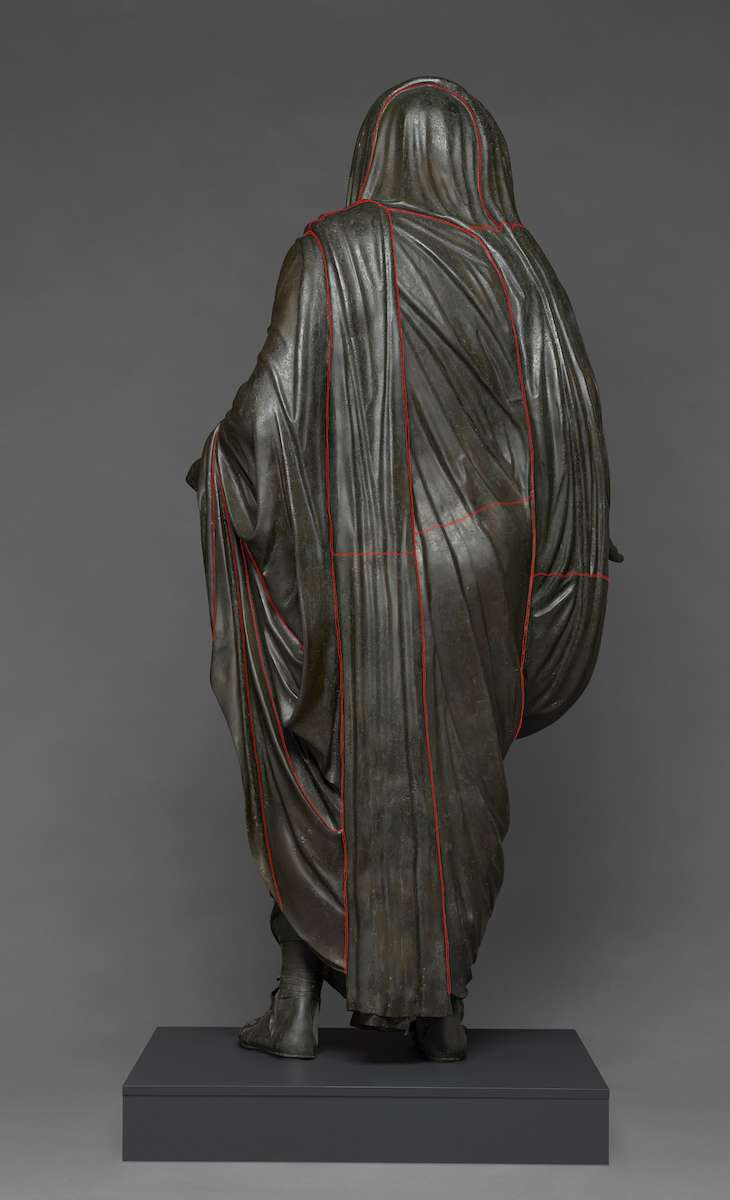
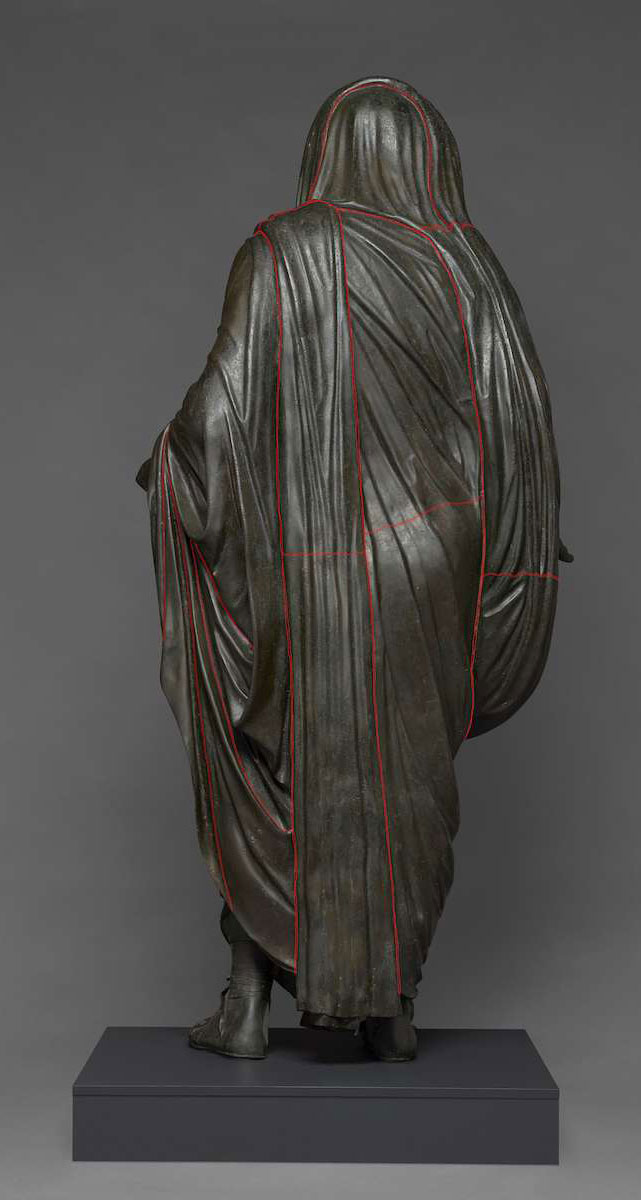
Adjust image crops and placements, sections I and II

diff --git a/content/large-scale-bronzes/5-butz.md b/content/large-scale-bronzes/5-butz.md
@@ -12,7 +12,9 @@ weight: 105
 
 > Ὑπὲρ Πτολεμαίου ἐμοῦ τοῦ Ἐπιφανεστάτου
 
-The bronze head of Arsinoë III is one of the most important pieces in the Giuseppe Acerbi Collection of the Museo Civico di Palazzo Te in Mantua, a collection assembled when Acerbi was the Austrian consul general in Alexandria between 1826 and 1834 and later given to his hometown of Mantua ([fig. 5.1](#5.1)). Even compared with the exceptional quality of the overall collection, which is particularly strong in Late Period, Ptolemaic, and Roman material, this representation of Arsinoë III is singular. It is the only major bronze Acerbi acquired and it is a rare embodiment in that material of Hellenistic royal portraiture in the Greek tradition. {{< q-figure id="5.1" class="float-left" >}} The head ([fig. 5.2](#5.2)) connects strongly with other significant portraits displayed in the same room at the Palazzo Te. One is possibly a portrait of Psammetichus I, who took the throne of Egypt in the seventh century BC with the help of Greek mercenaries and who, by formally authorizing the Greek settlement at Naukratis south of Alexandria, opened the intercultural contact that would culminate in the Ptolemaic period.[^1] Another portrait of a Ptolemaic king is also nearby, rendered in the Egyptian style and identified as perhaps Ptolemy II Philadelphus,[^2] who would have been the queen’s grandfather.
+{{< q-figure id="5.1" class="float-right" >}}
+
+The bronze head of Arsinoë III is one of the most important pieces in the Giuseppe Acerbi Collection of the Museo Civico di Palazzo Te in Mantua, a collection assembled when Acerbi was the Austrian consul general in Alexandria between 1826 and 1834 and later given to his hometown of Mantua ([fig. 5.1](#5.1)). Even compared with the exceptional quality of the overall collection, which is particularly strong in Late Period, Ptolemaic, and Roman material, this representation of Arsinoë III is singular. It is the only major bronze Acerbi acquired and it is a rare embodiment in that material of Hellenistic royal portraiture in the Greek tradition. The head ([fig. 5.2](#5.2)) connects strongly with other significant portraits displayed in the same room at the Palazzo Te. One is possibly a portrait of Psammetichus I, who took the throne of Egypt in the seventh century BC with the help of Greek mercenaries and who, by formally authorizing the Greek settlement at Naukratis south of Alexandria, opened the intercultural contact that would culminate in the Ptolemaic period.[^1] Another portrait of a Ptolemaic king is also nearby, rendered in the Egyptian style and identified as perhaps Ptolemy II Philadelphus,[^2] who would have been the queen’s grandfather.
 
 {{< q-figure id="5.2" >}}
 
@@ -34,13 +36,15 @@ Ghisellini, as already noted, utilized the frontal view for her principle assess
 
 The left profile ([fig. 3b](#5.3a-b)), on the other hand, has a different vitality. There is an uplift, which one also observes from the front, and a focused energy that even the loss of the inlaid eye cannot impair. The mouth actually curves upward at the corner and the overall effect is one of tempered lightness. The hairstyle, considered her own as confirmed on the coinage, balances the face very well from any angle, but on this side the thrust of the twisted braids forming the bun at the back is stronger and extends forcibly, a perfect counterweight to the face. We appreciate how the braiding, far more plastic in its rendering of the strands of hair, forms a natural diadem for the queen making a stephane unnecessary ([fig. 5.4](#5.4)). Yet the deep groove between the side braids and the carefully combed crown is capable of receiving one, as noted by Smith. It is the more enlivened left profile, then, that has the sense of rejuvenation and hence divinity about it.
 
-There is one Hellenistic relief that I claim relates directly to the Mantua head because it sheds further light on these mixed elements of realism and divinity in Arsinoë’s portraiture: the Archelaos Relief, signed by Archelaos of Priene ([fig. 5.5](#5.5)). {{< q-figure id="5.5" class="float-left" >}} Found at Bovillae, some 19 kilometers (12 miles) outside of Rome, and now in the British Museum, the relief presents the immortalization of Homer in a series of four registers.[^12] The event itself is depicted on the bottom register; then it is celebrated by Apollo and a number of the Muses on the second register, by Mnemosyne and other figures on the third register, and finally by Zeus at the apex. These deities indicate the divine inspiration enjoyed by Homer from the inception of his works and facilitate his triumphant “homecoming.” J. J. Pollitt states that the facial similarity between Homer and Zeus not only brings the two together but is responsible for the modern title “Apotheosis of Homer” sometimes given to the relief.[^13] There is in addition a standing figure on the far right of the second register, positioned in contrapposto upon a statue base and holding a scroll with a lightly incised tripod behind him. While this could very likely be a victorious poet honored by the stele or the dedicant proper,[^14] it could conceivably be Homer himself as a younger genius, especially if the relief were implying an actual apotheosis, i.e. the raising of the individual to the higher status.[^15] But of greatest interest to us here is the pair of figures farthest to the left on the bottom register, stepping toward the seated Homer, framing the scene on that side, and acting as sole agents in his crowning ([fig. 5.6a](#5.6a)). {{< q-figure id="5.6a" class="float-right" >}}Recognizable from coin portraits, the couple is unquestionably Ptolemy IV and Arsinoë III—Richard Neer calls the portraits “thinly disguised”[^16]—although other rulers have been proposed in the past.[^17] No matter what date is given to the relief or its actual place of manufacture,[^18] in the end it comes back to this couple and hence the traditions of the Alexandrine literati. Ptolemy IV, known throughout his reign for his religious piety, erected a Homereion as part of his temple-building campaign in Alexandria honoring many of the Egyptian gods.[^19] An important anonymous papyrus preserves an epigram in which Ptolemy IV is called “blessed” for this act.[^20] Aelian (*Varia historia* 13.22) also attests to the foundation of the Homereion. While the location of the shrine is not known, it is worth citing the passage:
+There is one Hellenistic relief that I claim relates directly to the Mantua head because it sheds further light on these mixed elements of realism and divinity in Arsinoë’s portraiture: the Archelaos Relief, signed by Archelaos of Priene ([fig. 5.5](#5.5)). Found at Bovillae, some 19 kilometers (12 miles) outside of Rome, and now in the British Museum, the relief presents the immortalization of Homer in a series of four registers.[^12] The event itself is depicted on the bottom register; then it is celebrated by Apollo and a number of the Muses on the second register, by Mnemosyne and other figures on the third register, and finally by Zeus at the apex. These deities indicate the divine inspiration enjoyed by Homer from the inception of his works and facilitate his triumphant “homecoming.” J. J. Pollitt states that the facial similarity between Homer and Zeus not only brings the two together but is responsible for the modern title “Apotheosis of Homer” sometimes given to the relief.[^13] There is in addition a standing figure on the far right of the second register, positioned in contrapposto upon a statue base and holding a scroll with a lightly incised tripod behind him. While this could very likely be a victorious poet honored by the stele or the dedicant proper,[^14] it could conceivably be Homer himself as a younger genius, especially if the relief were implying an actual apotheosis, i.e. the raising of the individual to the higher status.[^15] But of greatest interest to us here is the pair of figures farthest to the left on the bottom register, stepping toward the seated Homer, framing the scene on that side, and acting as sole agents in his crowning ([fig. 5.6a](#5.6a)). Recognizable from coin portraits, the couple is unquestionably Ptolemy IV and Arsinoë III—Richard Neer calls the portraits “thinly disguised”[^16]—although other rulers have been proposed in the past.[^17] No matter what date is given to the relief or its actual place of manufacture,[^18] in the end it comes back to this couple and hence the traditions of the Alexandrine literati. Ptolemy IV, known throughout his reign for his religious piety, erected a Homereion as part of his temple-building campaign in Alexandria honoring many of the Egyptian gods.[^19] An important anonymous papyrus preserves an epigram in which Ptolemy IV is called “blessed” for this act.[^20] Aelian (*Varia historia* 13.22) also attests to the foundation of the Homereion. While the location of the shrine is not known, it is worth citing the passage:
+
+{{< q-figure-group id="5.5, 5.6a, 5.6b" class="float-right" >}}
 
 >Πτολεμαῖος ὁ Φιλοπάτωρ κατασκευάσας Ὁμήρῳ νέων, αὑτὸν μὲν καλὸν καλῶς ἐκάθισε, κύκλῳ δὲ τὰς πόλεις περιέστησε τοῦ ἀγάλματος, ὅσαι ἀντιποιοῦνται τοῦ Ὁμήρου. Γαλάτων δέ ὁ ζωγράφος ἔγαψε τὸν μὲν Ὅμηρον ἀυτὸν ἐμοῦντα, τοὺς δὲ ἄλλους ποιητὰς τὰ ἑμημεσμένα ἀρυτομένους.[^21]
 
 This description brings to mind the circle of poets, part of the dromos installation at the Sarapieion of Saqqara, the statuary of which may well be dated to the reign of Ptolemy IV.[^22] Homer was among the subjects of that elite circle of statues, if not the focal point. This has led me to a tentative theory that what is depicted on the Archelaos Relief may also be related to the larger installation, firmly connecting Alexandria to Memphis.[^23] The Archelaos Relief depicts at least two distinct environments. The first is the theatrical ambience on the bottom register with its backdrop of columns joined by a draped curtain attached just below the abacus of each column. The result is a shallow, contained space dominated by Homer and the royal couple to the left. In front of Homer, just off-center, is a circular altar, with a magnificent, Apis-like horned bull looming over it. Two small figures, kneeling and flanking Homer’s throne, are personifications of the bard’s epic creations, as the inscriptions below tell the viewer. Facing Homer on the other side of the altar are the genres of literature and intellect that acknowledge his inspiration and will ultimately carry it forward. The *rhythmos* of the scene is interesting. There is a processional quality to the repetitious, fixed contrapposto position of many of the figures on the right, with everyone gesturing toward Homer. The votive effect has been noted by several scholars.[^24] The second environment of the relief is the mountain-like ascent of the upper registers combining some architectonic elements, such as the cavelike archway or grotto sheltering Apollo and the curving, graded stairway connecting the third register to the top. Neer has associated these details with a shrine to the Muses overlooking the Great Library at Alexandria,[^25] but it is very possible that we could be looking at some part or parts of the Homereion itself. The figure on the statue base is positioned directly below the staircase between the third and fourth registers. Mnemosyne, the mother of the Muses, stands in contrapposto on an outcropping of rock to the left of the stairway, looking upward toward a reclining Zeus. Her imposing figure breaks down the division between the third and fourth registers. Their offspring, the Muses, are the major occupants of the registers below. Zahra Newby traces what would have been the orchestration of the eye contact between these figures, many now missing their actual heads.[^26] Space and the transmission of knowledge are definitely handled differently in the upper three registers.
 
-While undoubtedly advancing side-by-side toward Homer in three-dimensional space, the conventions of the two-dimensional relief put Ptolemy IV’s head just ahead of his wife’s on the left end of the bottom register. The hands of Arsinoë III holding the stephane over Homer’s head, however, extend beyond the hands of her husband, each holding a scroll. But the subtleties go beyond this. The three heads—those of Ptolemy, Homer, and Arsinoë—are cut at significantly different levels. They range from the very precise, coin-like quality of Ptolemy IV’s profile in low relief, to the higher treatment of the seated Homer’s almost three-quarter turn, to the fully achieved three-quarter high relief of Arsinoë III ([fig. 5.6b](#5.6b)). {{< q-figure id="5.6b" class="float-left" >}}It is even possible to sense the existence of the far side of her face, recalling the profile views of Arsinoë III in Mantua and that peculiar blending of the realistic and divinized aspects of the queen in a single artwork. It may be asking too much, given the wear on her image (breakage of the nose to start with) to talk about the far side of Arsinoë’s portrait on the Archelaos Relief; but my assessment of her right profile is that it is idealized. There is, once again, that rejuvenated quality in the face; she looks young especially alongside her husband. Her mouth is visibly upturned. This is not the “Victorian” realism of the octodrachm coin portrait. One can speak even more definitively of her hairstyle: it is exactly that of the Mantua head but with an important difference. The twisted bun at the back is draped, the long material visibly extending over her right shoulder, signifying the religious import of her action. But unlike the full *capite velato* regularly seen in the coinage of her predecessors Arsinoë II and Berenike II, the coin portrait of this queen, as we have learned, is more worldly. If she were to have worn the full *capite velato* on the Archelaos Relief, what a shift it would have made in the whole iconographical message. Instead, Arsinoë III takes absolute command of the deification of Homer via her choice of headgear, namely the polos crown reserved for goddesses, among them Aphrodite or Tyche, dominating the partial *capite velato*. Ptolemy may have been given wings (rendered in the lightest relief) but she is the deified and deifying force propelling the action of the relief.
+While undoubtedly advancing side-by-side toward Homer in three-dimensional space, the conventions of the two-dimensional relief put Ptolemy IV’s head just ahead of his wife’s on the left end of the bottom register. The hands of Arsinoë III holding the stephane over Homer’s head, however, extend beyond the hands of her husband, each holding a scroll. But the subtleties go beyond this. The three heads—those of Ptolemy, Homer, and Arsinoë—are cut at significantly different levels. They range from the very precise, coin-like quality of Ptolemy IV’s profile in low relief, to the higher treatment of the seated Homer’s almost three-quarter turn, to the fully achieved three-quarter high relief of Arsinoë III ([fig. 5.6b](#5.6b)). It is even possible to sense the existence of the far side of her face, recalling the profile views of Arsinoë III in Mantua and that peculiar blending of the realistic and divinized aspects of the queen in a single artwork. It may be asking too much, given the wear on her image (breakage of the nose to start with) to talk about the far side of Arsinoë’s portrait on the Archelaos Relief; but my assessment of her right profile is that it is idealized. There is, once again, that rejuvenated quality in the face; she looks young especially alongside her husband. Her mouth is visibly upturned. This is not the “Victorian” realism of the octodrachm coin portrait. One can speak even more definitively of her hairstyle: it is exactly that of the Mantua head but with an important difference. The twisted bun at the back is draped, the long material visibly extending over her right shoulder, signifying the religious import of her action. But unlike the full *capite velato* regularly seen in the coinage of her predecessors Arsinoë II and Berenike II, the coin portrait of this queen, as we have learned, is more worldly. If she were to have worn the full *capite velato* on the Archelaos Relief, what a shift it would have made in the whole iconographical message. Instead, Arsinoë III takes absolute command of the deification of Homer via her choice of headgear, namely the polos crown reserved for goddesses, among them Aphrodite or Tyche, dominating the partial *capite velato*. Ptolemy may have been given wings (rendered in the lightest relief) but she is the deified and deifying force propelling the action of the relief.
 
 {{< q-figure id="5.7" >}}
 

diff --git a/content/large-scale-bronzes/3-koutsouflakis.md b/content/large-scale-bronzes/3-koutsouflakis.md
@@ -46,9 +46,9 @@ There is no official record indicating that anyone saw the wreck site again, and
 
 The statue of the Horse and Jockey was reassembled, and after extensive restoration went on display at the National Museum of Athens.[^15] The original artist and the circumstances under which the work was created are unknown. Seán Hemingway has suggested that it may have been plundered from Corinth in 146 BC by the Roman general Mumius during the Achaean War and given to Attalus as a share of the booty, but lost while in transit to Pergamon.[^16] Christos Piteros connected the wreck with the plundering of Chalkis by Mithridates’ general Archelaos after the defeat of their coalition by Sulla in 86 BC and his escape back to Pergamon.[^17]
 
-After the delivery of the last part of the Artemision assemblage, almost half a century passed without any significant new finds in Greece. The only exception was the confiscation by the port police of a bronze statuette depicting Artemis, raised during illegal operations in 1959 from the sea off Mykonos ([fig. 3.2](#3.2)).[^18] According to the statue’s drapery and style, it should be dated in the early Hellenistic period.
+{{< q-figure id="3.2" class="float-right" >}}
 
-{{< q-figure id="3.2" >}}
+After the delivery of the last part of the Artemision assemblage, almost half a century passed without any significant new finds in Greece. The only exception was the confiscation by the port police of a bronze statuette depicting Artemis, raised during illegal operations in 1959 from the sea off Mykonos ([fig. 3.2](#3.2)).[^18] According to the statue’s drapery and style, it should be dated in the early Hellenistic period.
 
 Several bronzes have however been reported found off the coast of Asia Minor, modern Turkey. The “Lady from the Sea” was found in 1953 by fishermen dragging their nets along the coast of Arap Adasi, not far from the Knidos peninsula, at a depth of around 100 meters (330 feet).[^19] They brought the bronze to the village of Bitez, near Bodrum, and abandoned it on the beach. There, neglected and covered with marine incrustations, it remained for several weeks until it attracted the attention of George E. Bean, a British professor at Istanbul University; he had the bronze removed to Izmir where it was cleaned and housed. The work is usually dated in the first half of the third century BC. Extensive underwater surveys conducted in the area failed to link the bronze to any specific context.[^20]
 
@@ -82,17 +82,15 @@ Concerning the conditions of transport and loss of the statues retrieved from th
 
 Among the late finds originating from the Aegean there is also a life-sized bronze statue of a nude male, raised in 2004 from a depth of almost 450 meters (1,475 feet) in the area west of Kythnos in the Cyclades.[^41] The entire head, the right arm from the shoulder, the right leg from the knee down, and part of the back are missing. The nudity, the equipoise, and the musculature of the body suggest a robust athlete, perhaps a discus thrower. The dating of the bronze is still very uncertain and depends on its potential relationship with a shipwreck found in the same area, loaded with a mixed cargo that contained, among other items, Chian amphorae of the late fourth or early third century BC.[^42]
 
-The latest accession in this long series of bronzes found underwater is a head of a young male figure that was delivered to the Department by a spear-fisherman in late summer 2015 ([fig. 3.6](#3.6)).[^43] It was collected in shallow waters in front of the village of Agia Pelagia in the island of Kythira, south of Peloponnese; according to the existing evidence, it is not connected to any shipwreck remains. The rendering of the hair in shallow relief might indicate a late Hellenistic, if not early Roman, variation of an earlier prototype.
+{{< q-figure id="3.6" class="float-right">}}
 
-{{< q-figure id="3.6" >}}
+The latest accession in this long series of bronzes found underwater is a head of a young male figure that was delivered to the Department by a spear-fisherman in late summer 2015 ([fig. 3.6](#3.6)).[^43] It was collected in shallow waters in front of the village of Agia Pelagia in the island of Kythira, south of Peloponnese; according to the existing evidence, it is not connected to any shipwreck remains. The rendering of the hair in shallow relief might indicate a late Hellenistic, if not early Roman, variation of an earlier prototype.
 
 Any catalogue of bronzes retrieved from Greek or Turkish territorial waters inevitably remains incomplete: we lack information about the numerous bronzes that worked their way through illegal transactions directly into private collections or appeared out of nowhere on the international market. Ownership of art is *de facto* sanctioned by time. After aging a few years in private collections and then taking advantage of less strict legislation, they may well end up in collections of well-respected institutions. The repatriation in 2002 of a young male nude, now in the National Archaeological Museum of Athens,[^44] is one of the very few that made its way back. The sculpture allegedly was found somewhere in the Ionian Sea, perhaps off Preveza, but as in most such cases, there is no definite information. No doubt, there are many more.
 
 While complete or dismembered statues may at anytime rise from the deep to the full glare of publicity, investigators of shipwrecks on the coastal zone tend to conceal any trace of more valuable or uncommon cargo. As of Summer 2015, the number of ancient wrecks surveyed in Greek territorial waters exceeded two hundred. Yet the number of wreck-sites containing bronzes has remained stable for almost a century: Antikythera and Artemision, two of the very first wrecks ever investigated, were the only known examples until 2010. In that year a series of unexpected finds came to light during the opening of some trial trenches on a late Hellenistic shipwreck in the southern Euboean Gulf, off the island of Styra, at an accessible depth between 40 and 45 meters (131–147 feet).[^45] Several fragmentary pieces of bronze statues of natural size were unearthed by removing the upper sediments: a part of a nude calf, parts of folded drapery, and the selvage of a garment displaying a zone of inlaid reddish cooper ([fig. 3.7](#3.7)).[^46] From the same wreck, two intact bronze legs of a table or couch decorated with busts of sirens and acanthus leaves were also recovered ([fig. 3.8](#3.8)).[^47] Luxury furniture is seldom found in ancient shipwrecks, with the only other known examples reported in the wrecks from Antikythera and Mahdia, both known for their cargo of bronzes.[^48]
 
-{{< q-figure id="3.7" >}}
-
-{{< q-figure id="3.8" >}}
+{{< q-figure-group id="3.7, 3.8" grid="2" >}}
 
 Bronzes, however, constituted only a small part of the total cargo of the Styra shipwreck. The main cargo was a consignment of north Peloponnesian (Sikyonian) amphorae and tableware ([fig. 3.9](#3.9)). The nature of this complementary cargo of bronzes cannot be fully understood until the completion of the excavation. They could represent booty from the devastation of a town; the luxury belongings of an official who was travelling to or from his post; or even art objects ordered by a Roman patron. And considering the historic circumstances, fragmentary bronzes may well also have been collected as scrap and transported by sea on their way to the foundries that operated incessantly during that period to meet the demands of war.
 

diff --git a/content/the-artist/12-horne.md b/content/the-artist/12-horne.md
@@ -14,7 +14,9 @@ weight: 204
 
 Our understanding of the ancient sculptor’s profession, like so much of ancient sculpture itself, is fragmentary. The particulars of ephemeral facets such as training and organization come primarily from literary sources, supplemented by meager evidence found at sites of bronze and marble sculpture production. As a result, the clearest picture forms around the major figures of antiquity such as Praxiteles and Pheidias, who, according to ancient accounts, were sought out to complete major works across the Aegean.[^1] While we cannot fault encyclopedists, principally Pliny the Elder and Pausanias, for focusing their comments on notable pieces and creators, their perspectives are their own; it is rather our understanding of their accounts that deserves critical reexamination. A passing analysis of these literary accounts skews our understanding of the broader system of employment for all sculptors toward a series of major commissions.[^2] It is perhaps more accurate to consider commissions, or *patroned* work, as exceptional highlights rather than reflecting the trade more generally.[^3] This perspective raises important questions such as: What would have occupied the intervening years of a patron-less sculptor’s career? Were there periods during which he was actively seeking employment at sites of sculptural production? I will argue that in order to understand *un-patroned* employment and its relation to mobility, it is prudent to turn to approaches typically considered ancillary to the study of art. These include the modern study of migration dynamics as well as logistical and contractual documents within the epigraphic record.[^4] Sculptors of the ancient world were, after all, engaged in a commercial enterprise and reliant upon monetizing their material output.[^5] In the case of sculpting for large-scale architectural projects, we are fortunate to have documentation pertaining to the experiences of such individuals. This essay draws on these important bodies of evidence, identifying where pay rate, job type, and civic status affected the employment of sculptors and their apparent movement to locations of opportunity. These sources of information can be correlated with epigraphic evidence from Athens and Rhodes, which demonstrate the economic pressures on two diverse types of work settings: architectural projects and static workshops. By identifying common legal and economic catalysts, it becomes possible to broaden our understanding of the working lives of bronze and marble sculptors in antiquity.[^6]
 
-As previously mentioned, our sources on the ephemeral aspects of production are limited; even Lucian’s colorful account of stone sculpting is largely devoid of useful details.[^7] We will see in Athens that, in the case of large-scale architectural projects, the practice of documenting expenditures provides valuable information regarding employment of figural sculptors. The temporary nature of such projects adds an additional consideration when contemplating the effect upon workmen with niche skills. The Athenian Building Commission’s records of the Erechtheion’s construction from 409–405 BC, found on fragmentary marble slabs, include individual workman’s roles, pay, period of employment, and civic status ([fig. 12.1](#12.1)).[^8] {{< q-figure id="12.1" class="float-left" >}}Richard Randall, Jr., has drawn several important conclusions about the organization of these laborers, sculptors included. First, workmen of mixed status (slave, *metic*, and citizen) labored side-by-side on tasks of similar complexity while earning an equal sum during this third phase of construction.[^9] In the case of skilled slave labor, earnings would have been given directly to the slave’s owner.[^10] Considering the equality of pay, one must ask what factors affected the initial selection of workmen. Were there factors outside of the familiar facets of opportunity: resources (individuals possessing the necessary skills) and positional factors (availability of workers)? The second interesting piece of information gleaned from the marble fragments is that individual craftsmen engaged in more than one trade. The *metic* Agathanor, for example, worked as a sculptor on two projects (likely carving the Erechtheion’s small frieze figures) and as a wax modeler for the ceiling coffers, as documented by job title and its associated pay ([fig. 12.2](#12.2)). Randall goes on to point out that Agathanor was not the only individual engaged in multiple trades. These craftsmen sought to capitalize on the availability of work provided by complex multifaceted projects. With this information, one begins to see the value of investigating the context of logistical data as a corrective to preconceived notions of absolute trade specialization and assumptions privileging “artists” over craftspeople.
+As previously mentioned, our sources on the ephemeral aspects of production are limited; even Lucian’s colorful account of stone sculpting is largely devoid of useful details.[^7] We will see in Athens that, in the case of large-scale architectural projects, the practice of documenting expenditures provides valuable information regarding employment of figural sculptors. The temporary nature of such projects adds an additional consideration when contemplating the effect upon workmen with niche skills. The Athenian Building Commission’s records of the Erechtheion’s construction from 409–405 BC, found on fragmentary marble slabs, include individual workman’s roles, pay, period of employment, and civic status ([fig. 12.1](#12.1)).[^8] Richard Randall, Jr., has drawn several important conclusions about the organization of these laborers, sculptors included. First, workmen of mixed status (slave, *metic*, and citizen) labored side-by-side on tasks of similar complexity while earning an equal sum during this third phase of construction.[^9] In the case of skilled slave labor, earnings would have been given directly to the slave’s owner.[^10] Considering the equality of pay, one must ask what factors affected the initial selection of workmen. Were there factors outside of the familiar facets of opportunity: resources (individuals possessing the necessary skills) and positional factors (availability of workers)? The second interesting piece of information gleaned from the marble fragments is that individual craftsmen engaged in more than one trade. The *metic* Agathanor, for example, worked as a sculptor on two projects (likely carving the Erechtheion’s small frieze figures) and as a wax modeler for the ceiling coffers, as documented by job title and its associated pay ([fig. 12.2](#12.2)). Randall goes on to point out that Agathanor was not the only individual engaged in multiple trades. These craftsmen sought to capitalize on the availability of work provided by complex multifaceted projects. With this information, one begins to see the value of investigating the context of logistical data as a corrective to preconceived notions of absolute trade specialization and assumptions privileging “artists” over craftspeople.
+
+{{< q-figure id="12.1" >}}
 
 {{< q-figure id="12.2" >}}
 

diff --git a/content/large-scale-bronzes/8-mattusch.md b/content/large-scale-bronzes/8-mattusch.md
@@ -15,7 +15,7 @@ weight: 108
 
 The Piombino Apollo has recently undergone new studies of its production, measurements, alloy, and associated inscriptions ([fig. 8.1](#8.1), left). That statue and the similar Apollo from Pompeii ([fig. 8.1](#8.1), right) were installed side-by-side for the first time in the exhibition *Power and Pathos*, which made it possible to compare and contrast the two figures and to raise new questions about their similarities and differences.The Piombino Apollo was discovered underwater and sold at Livorno in 1832; in 1834 it was acquired by the Louvre.[^1] On the statue’s left foot, in capital letters, the phrase “. . . ος Αθαναια δεκαταν” (. . . os dedicated this as a tithe to Athena) was cut in the metal after casting[^2] and inlaid with silver. The image’s peculiar style led to debate over its date that continued until 1967, when Brunilde Sismondo Ridgway argued persuasively that the Piombino Apollo was made in the late Hellenistic period.[^3] Inside the statue were four fragments of a lead tablet, three of which were exhibited in *Power and Pathos*. The lead strips are inscribed with another phrase, in handwriting similar to that on the foot, partially preserving the names of its sculptors: “. . . ηνοδο . . . φων Ροδ\[ι\]ος εποo . . .” (\[M\]enodotos and . . . phon of Rhodes made it).
 
-{{< q-figure id="8.1" >}}
+{{< q-figure id="8.1" class="float-right" >}}
 
 Menodotos of Tyre founded a workshop in Rhodes, for which three generations of his family are recorded, ranging in date from 150 BC to perhaps 50 BC, and two of his descendants also bore the name Menodotos.[^4] These dates have suggested to some that the bronze image from Piombino might have been dedicated to Athena Lindia in Rhodes during the last quarter of the second century BC, and that it was shipped to Italy at some later date.[^5] Sophie Descamps-Lequime has asked, however, whether a statue of a god could be dedicated to another god,[^6] and this leads to the question of whether this kouros necessarily represents Apollo. That is, in what sense might an archaizing kouros be recognized as a statue of that god and yet actually have been dedicated to Athena. One might even ask whether the statue’s buyer believed that this was an Archaic statue, as did many modern scholars. Furthermore, the bronze from Piombino may not have been produced in Rhodes. Menodotos himself came from Tyre, and inscriptions record works by his family-members in Halikarnassos, in Athens, and in Delphi. A versatile family, they produced at least three different types of works: an athletic group, portrait statues, and the archaizing Piombino bronze.[^7] This image is of very high quality, with delicate detailing of the hair, gracefully curving inlaid copper brows and lips, inlaid copper nipples, and almost no evidence of bubbles, patches, or other repairs, beyond the possible repair of one toe.[^8]
 
@@ -59,13 +59,11 @@ Like the previous image, this bronze is slightly under 150 centimeters (59 in.) 
 
 In 1960, a fleshy bronze youth, late Classical in style, poised gracefully on an elaborate base, was excavated at Pompeii, in the House of Marcus Fabius Rufus, the location unspecified ([fig. 8.4](#8.4)).[^21] The height of the statue on its base is 137 or 139 centimeters (ca. 54 in.), of the figure alone 122 centimeters (48 in.). He has long thickly curled luxuriant hair, a fleshy face, and a soft effeminate body. The object he once held aloft in his right hand is now missing, but it may have been a wine-cup, because his left hand held tray supports in the form of grapevines, suggesting that the bearer is a young Bacchus. He is usually identified, but without explanation, as a statue that was repurposed as a lampstand (*lampadēphoros* or *lychnophoros*). On the contrary, it seems more likely that this too was intended as a piece of furniture, designed in the form of a statue.
 
-{{< q-figure id="8.4" >}}
-
 ## The Idolino
 
 The Idolino, now in Florence, was found in 1530 at Pesaro ([fig. 8.5](#8.5)).[^22] The bronze youth was initially identified as a statue by Myron, or, more widely, by Polykleitos, and an elaborate highly decorated base was made for him by Sebastiano Serlio during the 1530s, to which his small round ancient base was affixed. Little attention was paid to the tray-support made of grapevines that was found with the statue. Mario Iozzo has aptly described the Idolino not as a Roman version of a Classical statue, but rather as a “vaguely Polykleitan” piece of furniture.[^23]
 
-{{< q-figure id="8.5" >}}
+{{< q-figure-group id="8.4, 8.5" grid="2" >}}
 
 ## An Ephebe in a Pompeiian Wall-painting
 
@@ -81,7 +79,7 @@ These three-dimensional images, appointments for the luxury household, recall th
 
 An elegantly posed bronze ephebe was netted by fishermen in 1925 near the beach in the Bay of Marathon, with no other finds and no trace of a shipwreck ([fig. 8.7](#8.7)).[^25] The figure was nearly intact, missing only the front of the right foot, which had been separately cast, and a piece of the left heel. Ever since, scholars have argued over what the youth once held on the flattened palm of his left hand, at which he is looking so intently. The Marathon Boy’s right hand is raised, the wrist bent, the thumb and forefinger touching each other, again as if he is holding something. But what was it? Was he pouring liquid into a bowl? Picking fruit and putting it in a bowl? Holding a child, or perhaps a tortoiseshell lyre? Was he holding a box from which he was taking a ribbon? A top? Or was he snapping the fingers of his right hand? Who is he? Is he a young Hermes? Or does the fillet with the leaflike tab at the middle identify him as an athlete?
 
-{{< q-figure id="8.7" >}}
+{{< q-figure-group id="8.7, 8.8" class="float-right" >}}
 
 Some have imagined that the arms had broken off and were restored in Roman times, when he was turned into a lamp-bearer.[^26] But there is no evidence to support this conjecture. The statue was nearly intact when found, with his arms, legs, and head in place. The only point upon which scholars generally agree is that the style is Praxitelean, late fourth-century, or perhaps early Hellenistic. Was he actually made at that time, or was he a later production, made in the ever-popular Classical style?
 

diff --git a/content/large-scale-bronzes/4-palagia.md b/content/large-scale-bronzes/4-palagia.md
@@ -18,15 +18,17 @@ weight: 104
 
 The fine bronze portrait head of a man wearing a *kausia* ([figs. 4.1–3](#4.1)) which was on display in the exhibitions *Power and Pathos* in Florence, Los Angeles, and Washington, D.C., and *Pergamon and the Hellenistic Kingdoms of the Ancient World* at the Metropolitan Museum of Art in New York, is one of four over-life-size bronze statues of the Hellenistic period that were recovered from the sea near Kalymnos.[^1] Another colossal bronze is a female portrait statue of very fine quality, dating from the late third century BC.[^2] A third monumental bronze from the same area is the cuirassed torso of a horseman,[^3] while a fourth is an even larger headless horseman,[^4] which may or may not belong together with the *kausia* head. It is sometimes assumed that this bronze head belonged to an equestrian statue, but this is by no means established.
 
-{{< q-figure-group id="4.1, 4.2, 4.3" grid="3" grid-align="bottom" >}}
+{{< q-figure-group id="4.1, 4.2, 4.3" grid="3" grid-align="top" >}}
 
 All four statues could conceivably come from the same shipwreck, but we do not have a verified excavation context. The works were recovered by fishermen, who specified different findspots for each before turning them over to the Greek government. No shipwrecks have been located so far and the bronzes are not yet fully published, even though two of them were found in the previous century: the female statue was found in 1994, the head with a *kausia* in 1997, the cuirassed torso in 2006, and the headless horseman in 2009.[^5] There is little doubt that all four statues are portraits. Their high quality and monumental size suggest that they are portraits of rulers or high officials of the Hellenistic period. In 2013 I published an article tentatively identifying the female portrait statue from the sea off Kalymnos with the Ptolemaic queen Arsinoë III, who reigned in the late third century BC, by comparison with the bronze head of Arsinoë in Mantua, which was also included in the exhibition *Power and Pathos*.[^6] I associated the statue with the island of Kos, where several portraits of the queen are attested and where a ruler cult of the Ptolemies was located. Kos is very close to Pserimos, where the bronze female allegedly came to light.
 
 The bronze head wearing a *kausia* (see [figs. 4.1–3](#4.1)) is slightly over life-size. It was created by an outstanding sculptor and is one of the finest bronzes to have come down to us from antiquity. He has a long, oval face, large ears, short hair, sideburns and a short beard. He wears a distinctive hat of mushroom shape, slightly pointed, ending in a sweatband around the scalp. It seems to imitate a leather cap, judging by its sharp edges, with a woolen sweatband. A similar hat is represented on the weapons frieze of the propylon of the sanctuary of Athena at Pergamon ([fig. 4.4](#4.4)), which dates from the reign of Eumenes II, probably from the 180s BC,[^7] The same hat is worn by Seleukos II on his bronze coins minted at Susa in 228 BC.[^8] Two Bactrian kings are also portrayed wearing this type of hat: Antimachos I on his coin portraits from around the first quarter of the second century BC ([fig. 4.5](#4.5));[^9] and Demetrios II on a clay seal from Seleukeia on the Tigris from the last quarter of the same century.[^10] Their hat may be interpreted as a version of the *kausia*, the Macedonian hat for elite men.[^11]
 
-{{< q-figure id="4.4" >}}
+{{< q-figure id="4.4" class="float-right" >}}
 
-The *kausia* is mentioned by the historians of Alexander the Great as having been worn by Alexander and his companions. {{< q-figure id="4.5" class="float-right" >}}After his conquest of Persia, Alexander introduced a new royal headgear by combining his *kausia* with a Persian diadem, which was originally a cloth ribbon worn at the royal court of the Achaemenids.[^12] It was tied around one’s head, with its ends falling on the neck. Alexander tied the diadem around his *kausia*, which became a *kausia diadematophoros* and henceforth a royal prerogative*.*[^13] Demetrios Poliorketes, king of Macedon from 306 to 283 BC, wore a *kausia* with a double diadem.[^14] This Macedonian royal headgear persisted until the time of (or was revived by) Cleopatra VII of Egypt. In 34 BC she presented her infant Ptolemy, son of Antony, at a public ceremony known as the Donations of Alexandria, wearing a *kausia* with diadem.[^15]
+{{< q-figure id="4.5" class="float-right" >}}
+
+The *kausia* is mentioned by the historians of Alexander the Great as having been worn by Alexander and his companions. After his conquest of Persia, Alexander introduced a new royal headgear by combining his *kausia* with a Persian diadem, which was originally a cloth ribbon worn at the royal court of the Achaemenids.[^12] It was tied around one’s head, with its ends falling on the neck. Alexander tied the diadem around his *kausia*, which became a *kausia diadematophoros* and henceforth a royal prerogative*.*[^13] Demetrios Poliorketes, king of Macedon from 306 to 283 BC, wore a *kausia* with a double diadem.[^14] This Macedonian royal headgear persisted until the time of (or was revived by) Cleopatra VII of Egypt. In 34 BC she presented her infant Ptolemy, son of Antony, at a public ceremony known as the Donations of Alexandria, wearing a *kausia* with diadem.[^15]
 
 After his return from the expedition to India, Alexander presented his friends with purple *kausias* as royal gifts.[^16] This gesture was later imitated by Eumenes, who distributed purple *kausias* to Alexander’s veterans.[^17] Plutarch tells us that Alexander’s friend, Krateros, wore a *kausia*,[^18] and the hat is still attested at the court of Demetrios’s great-grandson, Philip V, who reigned from 221 to 179 BC.[^19]
 

diff --git a/content/the-artist/10-haga-et-al.md b/content/the-artist/10-haga-et-al.md
@@ -36,7 +36,7 @@ For more than a century, arguments have been made both for and against the ident
 
 Since the connection between the two sentences is rather abrupt, Jahn suggested it be read as “doryphorum viriliter puerum fecit \[et\] quem canona artifices vocant,” namely, “the sculptor made the Doryphoros and this very statue was called the ‘Canon’ by artists.” It is strange that the subject of such an important and influential work is not mentioned, given that, judging from the number of Roman copies, the Doryphoros was Polykleitos’s most famous work. This reading has therefore been supported by some[^2] but rejected by others.[^3] Furthermore, even to the broadly accepted identification of the “doryphorum viriliter puerum” with the Doryphoros type ([fig. 10.1](#10.1)) an objection has been raised recently.[^4]
 
-{{< q-figure id="10.1" >}}
+{{< q-figure id="10.1" class="float-right" >}}
 
 In this confused situation, we need to reflect again on the series of Roman copies, possibly attributable to the great sculptor: first, the famous (so-called, if necessary) Doryphoros, known to us through more than sixty copies; secondly, the Diadoumenos mentioned by Pliny in the passage cited above as the most costly work of the sculptor, copies of which we have only two (and some more head copies); thirdly, three (or four) Amazon types, each of which was created by Polykleitos, Pheidias, or Kresilas. We also have some types of statues that might originate from disciples or followers of the great master. Of course these pieces of evidence have been available for a long time, but with the help of new technology we have the possibility of obtaining from them some substantial new data.
 
